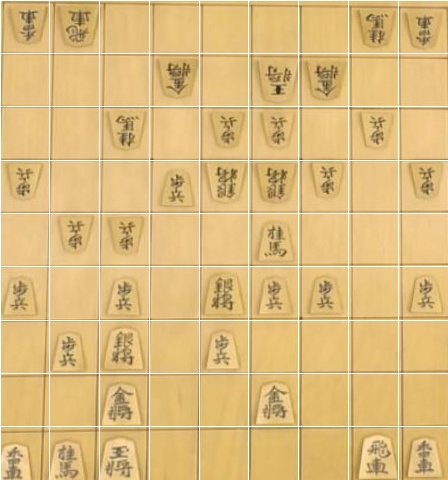
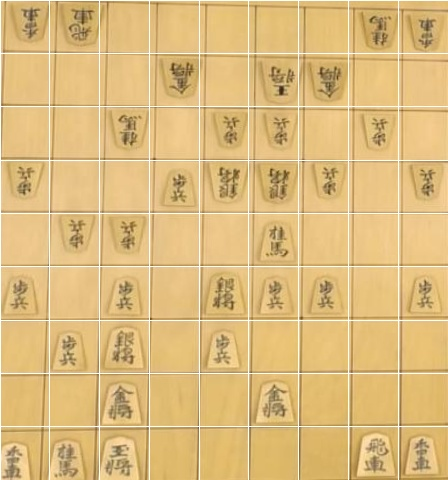
no use pycairo, use pyvips

diff --git a/manage.py b/manage.py
@@ -31,8 +31,8 @@ from yolov5 import detect
 from tools.tool import *
 
 # os.environ['path'] += r';C:\Users\skota\Development\projects\SHOGI_PHASE_RECOG_for_streamlit\GTK-for-Windows-Runtime-Environment-Installer\gtk-nsis-pack\bin'#デプロイ時はいらない？
-# import pyvips
-import svgwrite
+import pyvips
+# import svgwrite
 
 from cairosvg import svg2png
 # import cairo
@@ -230,10 +230,11 @@ if infer_button:
     print(type(svg_img))
     svg_img_bytes = bytes(svg_img, "utf-8")
 
-    svg2png(bytestring=svg_img, write_to='media/documents/x_result.png', output_width=500, output_height=400)
+    # svg2png(bytestring=svg_img, write_to='media/documents/x_result.png', output_width=500, output_height=400)
 
-    # svg_pyvips_instance = pyvips.Image.svgload_buffer(svg_img_bytes)
-    # svg_pyvips_instance.write_to_file("result.png")
+    svg_pyvips_instance = pyvips.Image.svgload_buffer(svg_img_bytes, dpi=200)
+    # svg_pyvips_instance = pyvips.Image.svgload_source(svg_img)
+    svg_pyvips_instance.write_to_file('media/documents/x_result.png')
     
     # dwg = svgwrite.Drawing("media/documents/result.jpg")
     # dwg.add(dwg.image(svg_img, size=(500,600)))
